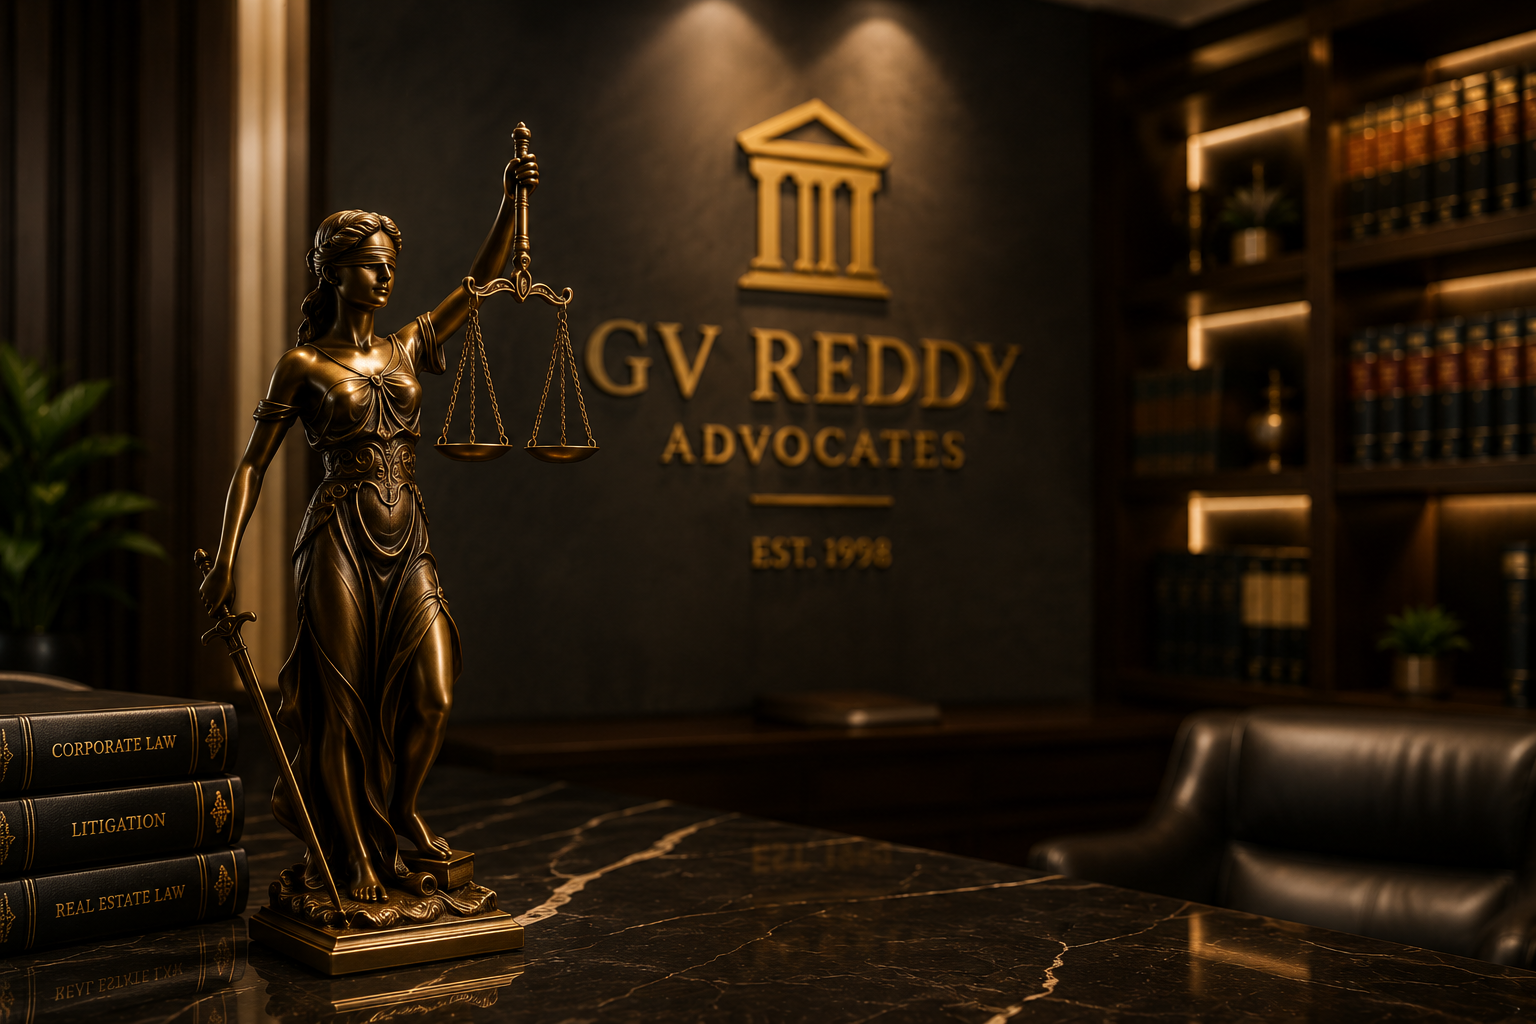
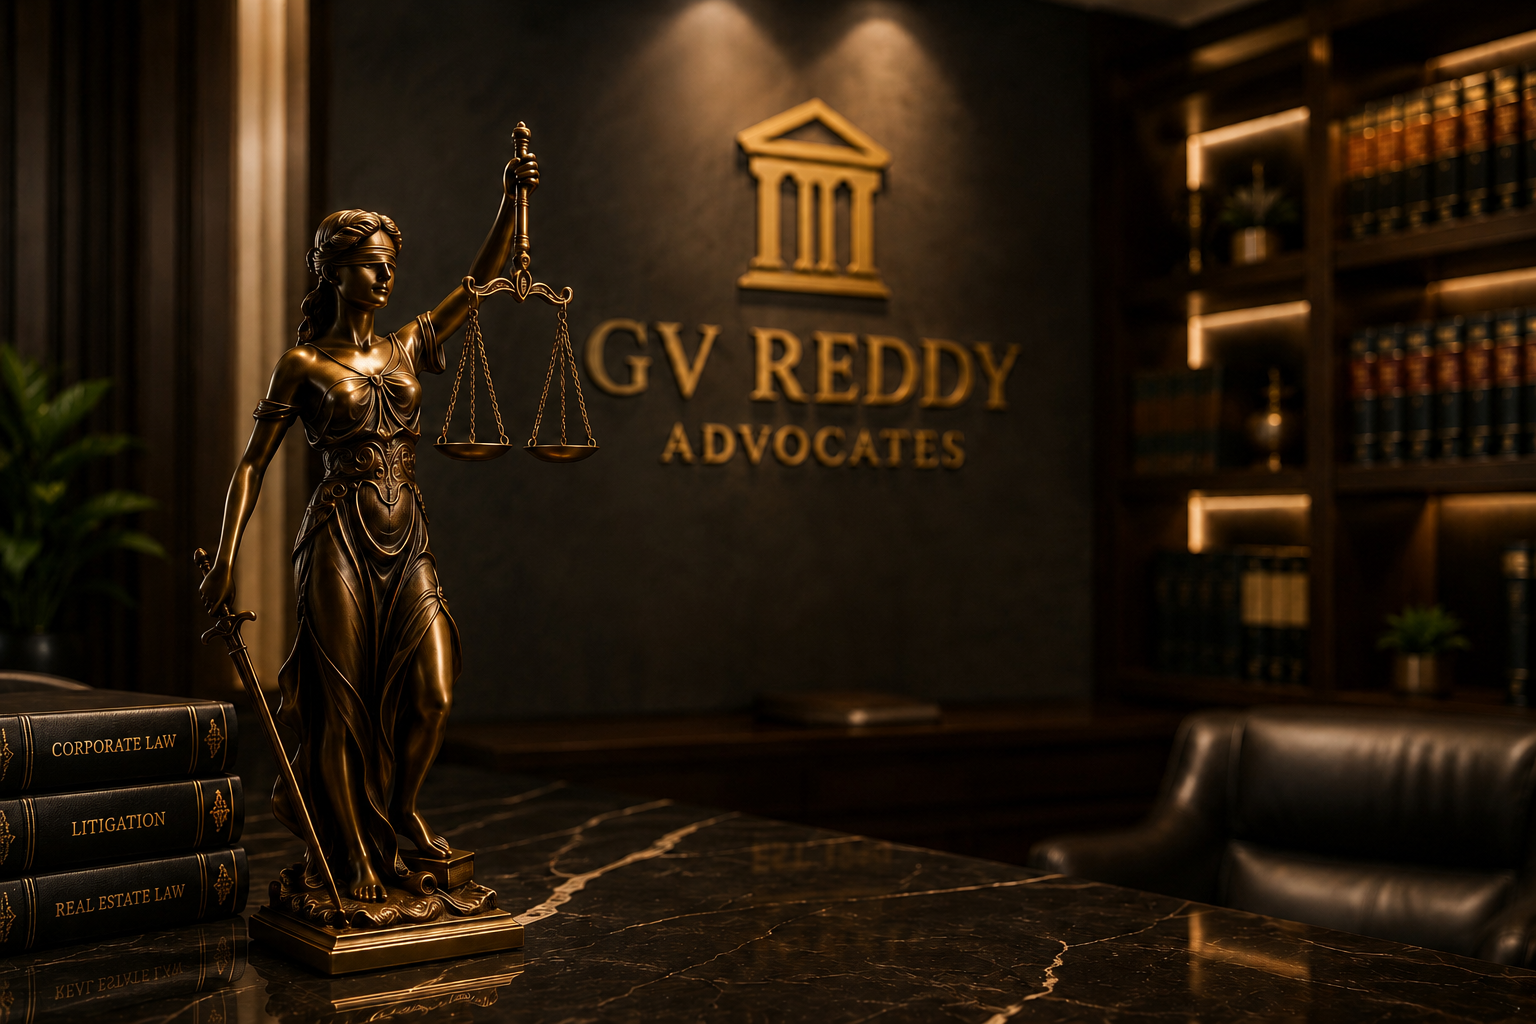
Updated founder image and aboutff section

diff --git a/src/components/PrivacyPolicy.tsx b/src/components/PrivacyPolicy.tsx
@@ -1,46 +1,44 @@
 export default function PrivacyPolicy() {
   return (
-    <section id="privacy" className="relative py-10 lg:py-12 bg-white overflow-hidden scroll-mt-24">
+    <section className="relative bg-white overflow-hidden">
       <div className="absolute top-0 left-0 w-80 h-80 bg-gold/5 rounded-full blur-3xl" />
 
       <div className="section-padding">
         <div className="container-max">
-          <div className="max-w-4xl">
-            <h2 className="font-display text-3xl sm:text-4xl font-bold text-primary mb-4">
-              <span className="gold-text-gradient">Disclaimer</span>
-            </h2>
-            <p className="font-body text-sm sm:text-base text-primary/55 leading-relaxed mb-6">
-              The current regulations of the Bar Council of India restrict advocates and law firms from advertising
-              or soliciting clients in any manner and from providing detailed information about their areas of practice
-              through a website. Accordingly, G. V. Reddy Advocates is limited in the information it can present
-              on this platform.
-            </p>
+          <h2 className="font-display text-3xl sm:text-4xl font-bold text-primary mb-4">
+            <span className="gold-text-gradient">Disclaimer</span>
+          </h2>
+          <p className="font-body text-sm sm:text-base text-primary/55 leading-relaxed mb-6">
+            The current regulations of the Bar Council of India restrict advocates and law firms from advertising
+            or soliciting clients in any manner and from providing detailed information about their areas of practice
+            through a website. Accordingly, G. V. Reddy Advocates is limited in the information it can present
+            on this platform.
+          </p>
 
-            <div className="space-y-4 rounded-sm border border-primary/5 bg-light-gray p-5 sm:p-6">
-              <p className="font-body text-sm sm:text-base text-primary/60 leading-relaxed">
-                By accessing this website, you acknowledge and confirm that:
-              </p>
-              <ul className="space-y-3 font-body text-sm sm:text-base text-primary/55 leading-relaxed list-disc pl-5">
-                <li>
-                  You wish to obtain more information about G. V. Reddy Advocates, its areas of practice,
-                  and its team members solely for your personal knowledge and use.
-                </li>
-                <li>
-                  The information available on this website is provided to you only upon your specific request.
-                  Any material downloaded or obtained from this site is at your own discretion, and accessing this
-                  website does not create any lawyer-client relationship.
-                </li>
-                <li>
-                  The content on this website is for general informational purposes only and should not be interpreted
-                  as legal advice or a legal opinion.
-                </li>
-                <li>
-                  G. V. Reddy Advocates is not responsible or liable for any actions taken based on the information
-                  provided herein. Users are strongly advised to seek independent legal counsel for any specific legal concerns
-                  or queries.
-                </li>
-              </ul>
-            </div>
+          <div className="space-y-4 rounded-sm border border-primary/5 bg-light-gray p-5 sm:p-6">
+            <p className="font-body text-sm sm:text-base text-primary/60 leading-relaxed">
+              By accessing this website, you acknowledge and confirm that:
+            </p>
+            <ul className="space-y-3 font-body text-sm sm:text-base text-primary/55 leading-relaxed list-disc pl-5">
+              <li>
+                You wish to obtain more information about G. V. Reddy Advocates, its areas of practice,
+                and its team members solely for your personal knowledge and use.
+              </li>
+              <li>
+                The information available on this website is provided to you only upon your specific request.
+                Any material downloaded or obtained from this site is at your own discretion, and accessing this
+                website does not create any lawyer-client relationship.
+              </li>
+              <li>
+                The content on this website is for general informational purposes only and should not be interpreted
+                as legal advice or a legal opinion.
+              </li>
+              <li>
+                G. V. Reddy Advocates is not responsible or liable for any actions taken based on the information
+                provided herein. Users are strongly advised to seek independent legal counsel for any specific legal concerns
+                or queries.
+              </li>
+            </ul>
           </div>
         </div>
       </div>

diff --git a/src/index.css b/src/index.css
@@ -175,6 +175,7 @@ input:focus, textarea:focus, select:focus {
   .page-group-insights { --page-scale: 0.94; }
   .page-group-careers { --page-scale: 0.9; justify-content: center; }
   .page-group-contact { --page-scale: 0.92; background: #F7F7F7; }
+  .page-group-privacy { --page-scale: 0.94; background: #F7F7F7; }
 
   .page-group section {
     padding-top: 0.75rem !important;
@@ -222,6 +223,14 @@ input:focus, textarea:focus, select:focus {
   .page-group-practice .page-group-inner,
   .page-group-team .page-group-inner {
     grid-template-columns: minmax(0, 1.1fr) minmax(360px, 0.9fr);
+  }
+
+  .page-group-privacy .page-group-inner {
+    display: block;
+  }
+
+  .page-group-privacy .container-max {
+    max-width: 88rem;
   }
 
   .page-group-insights .page-group-inner {

diff --git a/src/components/Footer.tsx b/src/components/Footer.tsx
@@ -8,13 +8,13 @@ export default function Footer() {
       <div className="section-padding py-6">
         <div className="container-max flex flex-col gap-4">
           <div className="flex flex-col sm:flex-row items-start sm:items-center justify-between gap-4">
-            <p className="font-body text-xs text-white/20">
+            <p className="font-body text-xs text-gold/85">
               &copy; {new Date().getFullYear()} GV Reddy Advocates. All rights reserved.
             </p>
             <div className="flex items-center gap-6">
-              <a href="#privacy" className="font-body text-xs text-white/20 hover:text-gold transition-colors duration-300">Disclaimer</a>
-              <a href="#contact" className="font-body text-xs text-white/20 hover:text-gold transition-colors duration-300">Contact</a>
-              <a href="#home" className="font-body text-xs text-white/20 hover:text-gold transition-colors duration-300">Back to Top</a>
+              <a href="#privacy" className="font-body text-xs text-gold/85 hover:text-white transition-colors duration-300">Disclaimer</a>
+              <a href="#contact" className="font-body text-xs text-gold/85 hover:text-white transition-colors duration-300">Contact</a>
+              <a href="#home" className="font-body text-xs text-gold/85 hover:text-white transition-colors duration-300">Back to Top</a>
             </div>
           </div>
         </div>

diff --git a/src/App.tsx b/src/App.tsx
@@ -66,7 +66,11 @@ function App() {
             <Contact />
           </div>
         </section>
-        <PrivacyPolicy />
+        <section id="privacy" className="page-group page-group-privacy scroll-mt-24">
+          <div className="page-group-inner">
+            <PrivacyPolicy />
+          </div>
+        </section>
       </main>
       <Footer />
     </div>